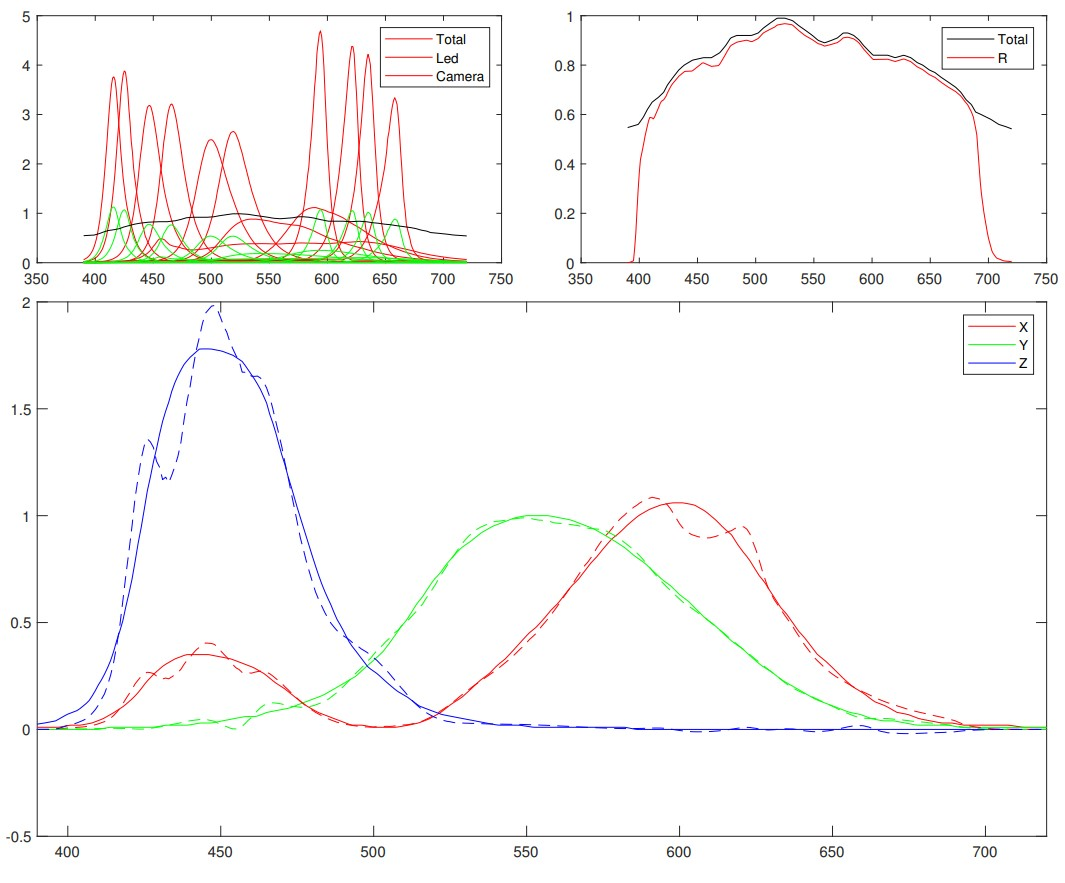
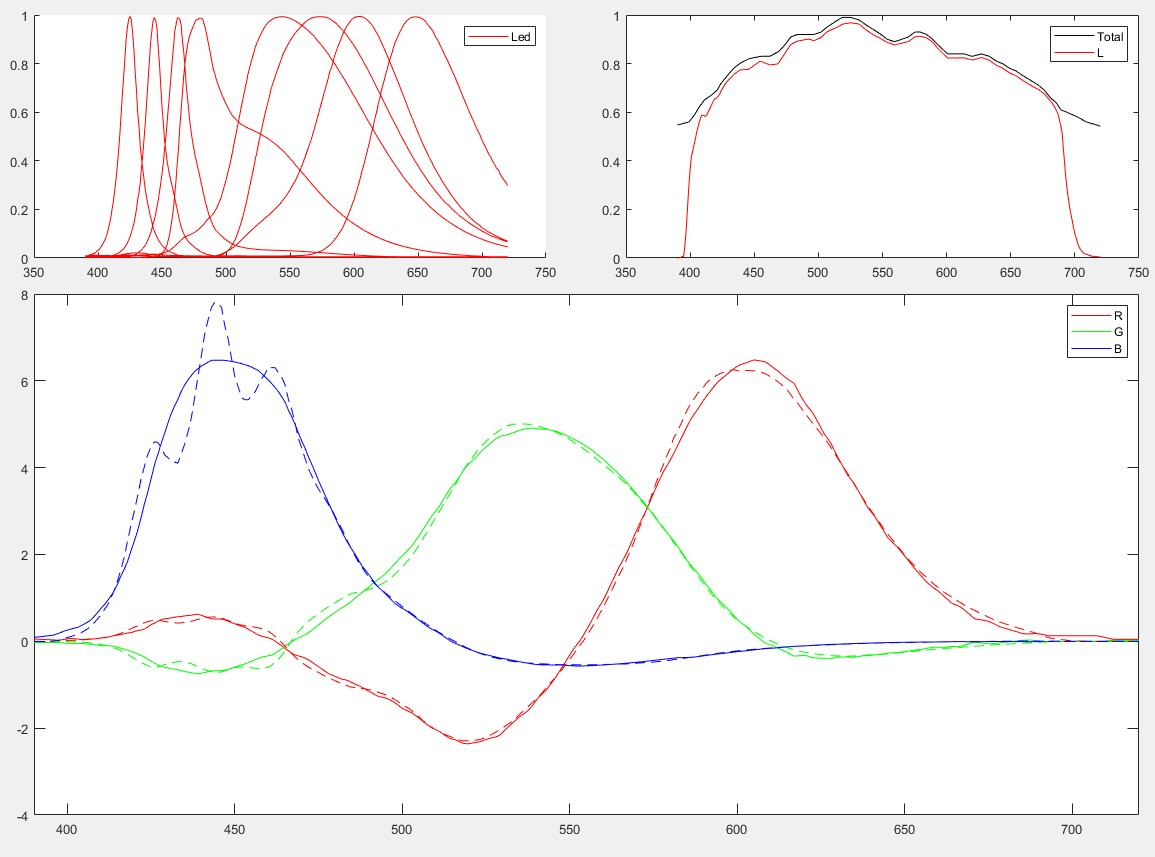
first post, material scanner

diff --git a/docs/_posts/2023-01-08-MaterialScanner.md b/docs/_posts/2023-01-08-MaterialScanner.md
@@ -1,0 +1,103 @@
+---
+title: "Material Scanner"
+date: 2023-01-08
+---
+
+<script type="text/x-mathjax-config">
+MathJax.Hub.Config({
+  tex2jax: {
+    inlineMath: [['$','$'], ['\\(','\\)']],
+    processEscapes: true
+  }
+});
+</script>
+<script src="https://cdnjs.cloudflare.com/ajax/libs/mathjax/2.7.0/MathJax.js?config=TeX-AMS-MML_HTMLorMML" type="text/javascript"></script>
+
+## Introduction
+Hi! I'm Niklas and for the last one and a half years I've been developing my material scanner in my spare time. As this is my first blog post about this topic, here is a quick rundown of what happened in that time:
+
+My current version is far from the first. There was a simple first prototype (results can be found [here](https://www.reddit.com/r/photogrammetry/comments/n1ejxm/first_result_of_my_custom_texture_scanning/)), which lasted a day before ditching it for a great new plan. It turned out that this great new plan wasn't as great as I had anticipated, so off I went building the third version which can be found [here](https://www.reddit.com/r/photogrammetry/comments/ojph2p/capture_process_of_my_pbr_material_scanner/). Back then I was still using my DSLR and the sound of the shutter synchronized with the LEDs was fairly satisfying. This got me my first good results and served well as a proof of concept. 
+
+Then I might have strayed from my path a bit by working on other interesting projects which I told myself were absolutely necessary for this scanner, like building a [CNC router](https://www.reddit.com/r/hobbycnc/comments/tnp28a/printnc_build_in_my_small_apartment_the_enclosure/) and a [spectrometer](https://www.reddit.com/r/Optics/comments/z9zxde/my_cheap_diy_spectrometer_sharpest_peak_has_a/). In hindsight I could have just used the Datron CNC of the local maker space, but that didn't have the same appeal as building a way worse version of it myself.
+
+At this point I was rather happy with the general design and it was time to make it into a more polished prototype. So after building a CNC, building a spectrometer, machining/3D printing all necessary parts, designing custom PCBs and finally putting it all together, I ended up with the current version.
+
+## Why?
+Now that you know how I got here, I should probably explain why I'm doing all of this:
+
+The goal of this scanner is to be able to calculate the visual properties of a material. These properties then allow me to render images of the same material under different lighting conditions. So a typical application would be computer games for example. 
+
+To better understand this you might want to look up the [birirectional reflectance distribution function (BRDF)](https://en.wikipedia.org/wiki/Bidirectional_reflectance_distribution_function). This is basically a function describing how light is reflected from a surface. It depends on the direction of incoming light and the direction of outgoing light and returns the amount of reflected light. This enables us to calculate how some material would look when viewed from a certain position and illuminated from another.
+
+<img src="https://upload.wikimedia.org/wikipedia/commons/e/ed/BRDF_Diagram.svg" alt="brdf_diagram" style="display: block;  margin-left: auto;  margin-right: auto;  width: 70%" /> 
+
+
+There are plenty of different BRDFs out there, all with their advantages and disadvantages, but the most commonly used is probably the [Disney BRDF](https://media.disneyanimation.com/uploads/production/publication_asset/48/asset/s2012_pbs_disney_brdf_notes_v3.pdf). This is also the BRDF that I'm using, and the goal is to calculate all variables used in this function to represent the appearance of a material.
+This means I want to get the albedo, normal map, metalness, roughness and specularity of a material. A very good explanation of this can be found [here](https://learnopengl.com/PBR/Theory).
+<img src="https://learnopengl.com/img/pbr/textures.png" alt="pbr" style="display: block;  margin-left: auto;  margin-right: auto;  width: 70%" /> 
+
+
+## How?
+Now, you might ask: how do you calculate this?
+
+This is done by taking many images of the material under different lighting. In my case each image corresponds to one light source which are arranged around the material. This means that for each pixel, we get several measurements consisting of the direction of incoming light, the direction of outgoing light (simply the direction of the camera as seen from the material), and how much light is reflected. With this information it is possible to calculate the parameters describing the appearance of the material. Of course I wasn't the first to have this idea, and this technique was first proposed over 40 years ago (see: [Photometric Stereo](https://en.wikipedia.org/wiki/Photometric_stereo)). Since then there has been a lot of research on this topic, a good survey on photometric stereo techniques can be found [here](http://mesh.brown.edu/3DP-2018/refs/Ackermann-now2015.pdf).
+<img src="https://upload.wikimedia.org/wikipedia/commons/b/b5/Photometric_stereo.png" alt="photometric stereo" style="display: block;  margin-left: auto;  margin-right: auto;  width: 70%" /> 
+
+*This is an illustration from the photometric stereo wikipedia article. The colorful image represents the normal map.*
+
+## The juicy details
+
+**Software implementation**
+All software I'm using is 
+
+**Overview of the scanner itself**
+
+For the scanner I'm using 63 white LEDs and 8 color LEDs in combination with a 16MP monochrome camera. Additionally a motor can rotate a linear polarizer in front of the camera lens. This allows me to separate the specular and diffuse reflections (more on this later). For switching the LEDs on and off I've designed some simple PCBs which are basically just daisy chained shift registers connected to mosfets. The scanner is capable of taking 11 images per second, but this is mainly limited by my camera, which is an ASI 1600MM Pro that I normally use for astrophotography. But the wishlist for my next birthday already contains a [Basler boA8100-16cm](https://www.baslerweb.com/en/products/cameras/coaxpress-2-0-cameras/cxp-12-evaluation-kit/cxp-12-evaluation-kit-boa8100-16cm-1c/), now I just need to find someone willing to buy it, which I'm guessing is unfortunately going to be me.
+
+**Separating diffuse and specular reflection**
+
+There are two different types of reflections, [diffuse reflection](https://en.wikipedia.org/wiki/Diffuse_reflection) and [specular reflection](https://en.wikipedia.org/wiki/Specular_reflection). Specular reflection is the one we learned about in school, light hits mirror, mirror reflects light as expected with the angle of reflection being the angle of incidence. 
+
+The diffuse reflection however, is due to the light entering the material, getting scattered around and at some point coming out of the material again. An ideal case of this is [Lambertian reflection](https://en.wikipedia.org/wiki/Lambertian_reflectance) where light enters and exits the surface at the same point and is reflected in all directions equally.
+<img src="https://upload.wikimedia.org/wikipedia/commons/b/bd/Lambert2.gif" style="display: block;  margin-left: auto;  margin-right: auto;  width: 70%" /> 
+
+An interesting difference between these is that if you [polarize](https://en.wikipedia.org/wiki/Polarization_(waves)) light before it hits the surface, the specular reflection will maintain the same polarization while the light of the diffuse reflection will become unpolarized. This means that we can use two polarization filters (one in front of the light source and one in front of the camera) to either filter out the specular reflection or not. Technically this isn't needed, but it surely makes the problem a lot easier, because now we have two smaller problems to solve instead of one really big one.
+
+**Solving the diffuse render equation**
+
+First lets tackle the first problem. For simplicity we assume our material has lambertian reflection and does not reflect any light specularily, which is quite close to most materials. This means that the function we need to solve looks like this:
+
+$$ I_D=L\cdot NCI_L $$
+
+where $$I_D$$ is the intensity of the diffusely reflected light, $$L$$ is the light vector, $$N$$ is the normal vector, $$C$$ is the color (=albedo) and $$I_L$$ is the intensity of the incoming light.
+Of those values we know $$I_D$$ (which is the brightness of one pixel in an image of our scan), $$I_L$$ and also $$L$$. Using this information we can find an optimal $C$ and $N$ with the method of our choice. I opted to use an iterative algorithm, which is essentially just gradient descent, but with a few custom features added to it.
+
+**Getting a color image**
+
+Those who have been closely paying attention will have noticed that I'm using a monochrome camera. So all I get are grayscale images.
+The normal process to get an colored image is to just use a color camera. These cameras have a [color filter array (CFA)](https://en.wikipedia.org/wiki/Color_filter_array) in front of the sensor. The values of neighboring pixels can then be merged into a single colored one.
+<img src="https://upload.wikimedia.org/wikipedia/commons/thumb/3/37/Bayer_pattern_on_sensor.svg/1920px-Bayer_pattern_on_sensor.svg.png" style="display: block;  margin-left: auto;  margin-right: auto;  width: 50%" /> 
+
+But such a CFA lowers the effective resolution of a camera and is generally not too suitable for photometric stereo. So instead I'm using a monochrome camera paired with color leds. After taking an image for each led, I have 8 color measurements per pixel. These need to be mapped to 3 values representing red, green and blue, which is done via a simple matrix multiplication. The matrix is first calculated by a calibration routine, that takes images of a color checker and finds the optimal mapping matrix. 
+
+Here are the specral response curves of my LEDs, camera and the theoretical spectral response of the rgb values (the dotted line). The solid line in the bottom plot is the ideal spectral response curve of sRGB.
+
+<img src="/Blog/assets/colors2xyz.jpg" style="display: block;  margin-left: auto;  margin-right: auto;  width: 80%" />
+
+This is how an image of my color checker looks, with the ideal colors as overlay in the small rectangles (sometimes difficult to see).
+
+<img src="/Blog/assets/colors.jpg" style="display: block;  margin-left: auto;  margin-right: auto;  width: 80%" />
+
+A video of the color capture process can be found [here](https://www.reddit.com/r/photogrammetry/comments/zwl79t/process_of_accurately_capturing_color_with_my/). If someone wants do do further reading on color accuracy [this](https://www.strollswithmydog.com/perfect-color-filter-array/) is a great blog post about it.
+
+**First results**
+
+These are the first results I got with my current version of the scanner, and yes, this is my floor. For now I'm only solving for the diffuse reflection, which means that the output is an albedo and a normal texture.
+
+<img src="/Blog/assets/albedo.jpg" style="width: 45%" />
+<img src="/Blog/assets/normal.jpg" style="width: 45%" />
+
+It was also really interesting to see how well the lambertiant diffuse model compares to measured values. The measured diffuse reflection is red and the calculated values in green. This is only the measurement of one pixel, x and y represent the position of the light source and z is luminance). However, this is probably an extreme example, because my floor seems to have quite complex subsurface scattering depending on the grain direction.
+<iframe width="640" height="360" src="https://www.youtube.com/embed/CAKBOubk8wg" title="Diffuse Reflection" frameborder="0" allow="accelerometer; autoplay; clipboard-write; encrypted-media; gyroscope; picture-in-picture; web-share" allowfullscreen></iframe>
+
+That's it for my first post, as this already took me a while to write. I'll be back with more!
